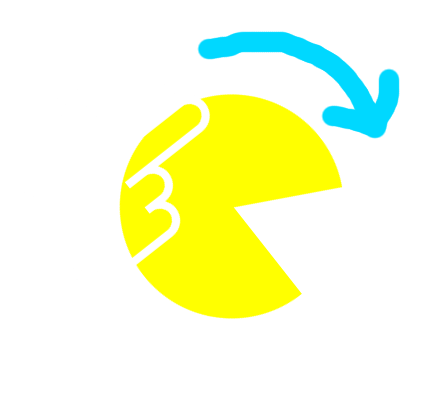
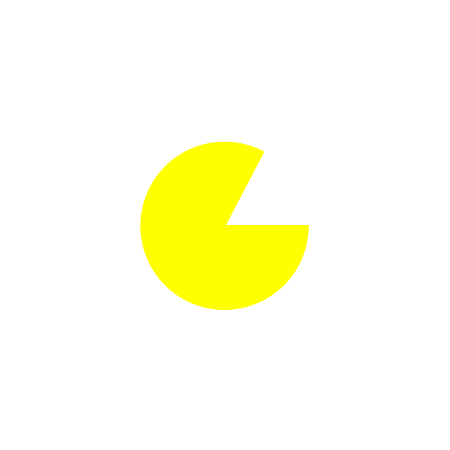
Clearer intro help animation, colors for scores

Changed region(s): [[0.2746, 0.0603, 0.946, 0.8141]]

diff --git a/Pizza Slice/GameScene.swift b/Pizza Slice/GameScene.swift
@@ -12,27 +12,24 @@ import AVFoundation
 class GameScene: SKScene, UIGestureRecognizerDelegate {
 
     var pacMan:SKShapeNode!
-    var planes:NSMutableArray = []
-    var nextPlaneLaunch:CFTimeInterval = 0
-    var direction = 0
+    var howto:SKSpriteNode!
+    var scoreLabel = SKLabelNode(fontNamed: "American Typewriter")
+    var maxScoreLabel = SKLabelNode(fontNamed: "American Typewriter")
+    var gameOverLabel = SKLabelNode(fontNamed: "American Typewriter")
     
-    var viewRadius:CGFloat!
-    var pacManRadius:CGFloat!
-    let pacManArc = M_PI * 0.4
-
     var eatSound = SKAction.playSoundFileNamed("eat.caf", waitForCompletion: false)
     var cwSound = SKAction.playSoundFileNamed("cw.caf", waitForCompletion: false)
     var ccwSound = SKAction.playSoundFileNamed("ccw.caf", waitForCompletion: false)
     var dieSound = SKAction.playSoundFileNamed("die.caf", waitForCompletion: false)
     
-    var scoreLabel:SKLabelNode = SKLabelNode(fontNamed: "American Typewriter")
-    var maxScoreLabel:SKLabelNode = SKLabelNode(fontNamed: "American Typewriter")
-    var gameOverLabel = SKLabelNode()
+    var viewRadius:CGFloat!
+    var pacManRadius:CGFloat!
+    let pacManArc = M_PI * 0.4
     var score:Int = 0
+    var direction = 0
     var gameOver = false
     var readyToStartNewGame = true
-    
-    var howto:SKSpriteNode!
+    var nextPlaneLaunch:CFTimeInterval = 0
     
     func handleRotate(recognizer : UIRotationGestureRecognizer) {
         if readyToStartNewGame {
@@ -60,18 +57,21 @@ class GameScene: SKScene, UIGestureRecognizerDelegate {
         self.viewRadius = hypot(view.frame.width, view.frame.height)
         self.pacManRadius = self.viewRadius * 0.05
         
-        var background:SKSpriteNode = SKSpriteNode(imageNamed: "background.jpg")
+        var background = SKSpriteNode(imageNamed: "background.jpg")
         background.position = CGPointMake(CGRectGetMidX(self.frame), CGRectGetMidY(self.frame))
         background.name = "background"
         background.xScale = 2.0
         background.yScale = 2.0
         self.addChild(background)
-
+        
         self.howto = SKSpriteNode(imageNamed: "howto")
         self.howto.position = CGPointMake(CGRectGetMidX(self.frame), CGRectGetMidY(self.frame))
         self.howto.size = CGSizeMake(self.viewRadius * 0.2, self.viewRadius * 0.2)
-        let action = SKAction.animateWithTextures([SKTexture(imageNamed: "howto"), SKTexture(imageNamed: "howto2")], timePerFrame: 0.4)
-        self.howto.runAction(SKAction.repeatActionForever(action))
+        var actions = NSMutableArray()
+        actions.addObject(SKAction.rotateByAngle(CGFloat(-M_PI_2), duration: 0.5))
+        actions.addObject(SKAction.waitForDuration(0.4))
+        actions.addObject(SKAction.rotateByAngle(CGFloat(+M_PI_2), duration: 0))
+        self.howto.runAction(SKAction.repeatActionForever(SKAction.sequence(actions)))
         self.addChild(self.howto)
         
         self.scoreLabel.text = "Score : 0"
@@ -81,21 +81,20 @@ class GameScene: SKScene, UIGestureRecognizerDelegate {
         self.scoreLabel.horizontalAlignmentMode = SKLabelHorizontalAlignmentMode.Center
         self.scoreLabel.position = CGPointMake(CGRectGetMidX(self.frame), self.frame.size.height - scoreLabel.frame.height * 2)
         self.addChild(scoreLabel)
-        self.maxScoreLabel.text = "Max Score : 0"
+        
+        self.maxScoreLabel.text = "High Score : 0"
         self.maxScoreLabel.name = "maxScoreLabel"
         self.maxScoreLabel.fontSize = UIDevice.currentDevice().userInterfaceIdiom == .Pad ? 60 : 30
         self.maxScoreLabel.zPosition = 10
         self.maxScoreLabel.horizontalAlignmentMode = SKLabelHorizontalAlignmentMode.Center
         self.maxScoreLabel.position = CGPointMake(CGRectGetMidX(self.frame), self.frame.size.height - scoreLabel.frame.height * 3)
-    }
-    
-    func startGame() {
-        self.howto.removeFromParent()
-        self.gameOverLabel.removeFromParent()
-        self.maxScoreLabel.removeFromParent()
-        self.score = 0
-        self.scoreLabel.text = "Score : \(self.score)"
-
+        
+        self.gameOverLabel.text = "GAME OVER"
+        self.gameOverLabel.name = "scoreLabel"
+        self.gameOverLabel.fontSize = UIDevice.currentDevice().userInterfaceIdiom == .Pad ? 60 : 30
+        self.gameOverLabel.zPosition = 9999999
+        self.gameOverLabel.horizontalAlignmentMode = SKLabelHorizontalAlignmentMode.Center
+        self.gameOverLabel.position = CGPointMake(CGRectGetMidX(self.frame), CGRectGetMidY(self.frame) - gameOverLabel.frame.height * 3)
         
         var path = CGPathCreateMutable()
         CGPathMoveToPoint(path, nil, 0, 0)
@@ -105,57 +104,48 @@ class GameScene: SKScene, UIGestureRecognizerDelegate {
         self.pacMan.strokeColor = SKColor.clearColor()
         self.pacMan.zPosition = 9999999
         self.pacMan.position = CGPointMake(CGRectGetMidX(self.frame), CGRectGetMidY(self.frame))
+    }
+    
+    func startGame() {
+        self.howto.removeFromParent()
+        self.gameOverLabel.removeFromParent()
+        self.maxScoreLabel.removeFromParent()
+        self.pacMan.zRotation = 0
         self.addChild(self.pacMan)
-        
+        self.score = 0
+        self.scoreLabel.text = "Score : \(self.score)"
+        self.scoreLabel.fontColor = self.colorForScore(self.score)
         self.readyToStartNewGame = false
         self.gameOver = false
     }
     
     func gameOver(attackingPiece: SKNode) {
         self.gameOver = true
-        
-        for plane in self.planes {
-            plane.removeFromParent()
-        }
-        self.planes.removeAllObjects()
         self.runAction(self.dieSound)
+
+        self.enumerateChildNodesWithName("plane", usingBlock: { (plane:SKNode!, x) -> Void in
+            plane.removeFromParent()
+        })
         
         var maxScore = self.score
         if let savedMaxScore = NSUserDefaults.standardUserDefaults().objectForKey("maxScore") as? NSNumber {
             maxScore = max(self.score, savedMaxScore)
         }
         NSUserDefaults.standardUserDefaults().setInteger(maxScore, forKey: "maxScore")
-        self.maxScoreLabel.text = "Max Score : \(maxScore)"
+        self.maxScoreLabel.text = "High Score : \(maxScore)"
+        self.maxScoreLabel.fontColor = self.colorForScore(maxScore)
         self.addChild(self.maxScoreLabel)
-        
-        gameOverLabel = SKLabelNode(fontNamed: "American Typewriter")
-        gameOverLabel.text = "GAME OVER"
-        gameOverLabel.name = "scoreLabel"
-        gameOverLabel.fontSize = UIDevice.currentDevice().userInterfaceIdiom == .Pad ? 60 : 30
-        gameOverLabel.zPosition = 9999999
-        gameOverLabel.horizontalAlignmentMode = SKLabelHorizontalAlignmentMode.Center
-        gameOverLabel.position = CGPointMake(CGRectGetMidX(self.frame), CGRectGetMidY(self.frame) - gameOverLabel.frame.height * 3)
-        self.addChild(gameOverLabel)
-        
-        
+        self.addChild(self.gameOverLabel)
         
         var wait = SKAction.waitForDuration(1.5)
         var setReady = SKAction.runBlock {
             self.pacMan.removeFromParent()
-            
-            self.howto = SKSpriteNode(imageNamed: "howto")
-            self.howto.position = CGPointMake(CGRectGetMidX(self.frame), CGRectGetMidY(self.frame))
-            self.howto.size = CGSizeMake(self.viewRadius * 0.2, self.viewRadius * 0.2)
-            let action = SKAction.animateWithTextures([SKTexture(imageNamed: "howto"), SKTexture(imageNamed: "howto2")], timePerFrame: 0.4)
-            self.howto.runAction(SKAction.repeatActionForever(action))
             self.addChild(self.howto)
-
             self.readyToStartNewGame = true
         }
         self.runAction(SKAction.sequence([wait, setReady]))
     }
     
-
     /* Called before each frame is rendered */
     override func update(currentTime: CFTimeInterval) {
         if gameOver {return}
@@ -169,18 +159,17 @@ class GameScene: SKScene, UIGestureRecognizerDelegate {
     
     func launchNewPlane() {
         let angle:CGFloat = CGFloat(Double(arc4random()) / 0x100000000 * 2 * M_PI)
-        let middlePoint = CGPointMake(CGRectGetMidX(self.frame), CGRectGetMidY(self.frame))
         let startPoint = CGPointMake(self.viewRadius * cos(angle) + CGRectGetMidX(self.frame),
                                      self.viewRadius * sin(angle) + CGRectGetMidY(self.frame))
         let collisionPoint = CGPointMake(self.pacManRadius * cos(angle) + CGRectGetMidX(self.frame),
                                          self.pacManRadius * sin(angle) + CGRectGetMidY(self.frame))
+        let middlePoint = CGPointMake(CGRectGetMidX(self.frame), CGRectGetMidY(self.frame))
         
         var plane:SKSpriteNode = SKSpriteNode(imageNamed: "plane")
         plane.position = startPoint
-        plane.name = "background"
+        plane.name = "plane"
         plane.size = CGSizeMake(self.viewRadius * 0.03, self.viewRadius * 0.03)
         self.addChild(plane)
-        self.planes.addObject(plane)
         
         var approachPacMac = SKAction.moveTo(collisionPoint, duration: 5)
         approachPacMac.timingMode = SKActionTimingMode.EaseIn
@@ -191,20 +180,10 @@ class GameScene: SKScene, UIGestureRecognizerDelegate {
                 self.scoreLabel.text = "Score : \(self.score)"
                 self.runAction(self.eatSound)
                 
-                if (self.score == 10) {
-                    self.pacMan.fillColor = SKColor.orangeColor()
-                } else if (self.score == 20) {
-                    self.pacMan.fillColor = SKColor.redColor()
-                } else if (self.score == 30) {
-                    self.pacMan.fillColor = SKColor.purpleColor()
-                } else if (self.score == 40) {
-                    self.pacMan.fillColor = SKColor.greenColor()
-                } else if (self.score == 50) {
-                    self.pacMan.fillColor = SKColor.blueColor()
-                } else if (self.score % 10 == 0) {
-                    self.pacMan.fillColor = UIColor(hue: CGFloat(self.score), saturation: 1, brightness: 1, alpha: 1)
+                if self.score % 10 == 0 {
+                    self.pacMan.fillColor = self.colorForScore(self.score)
+                    self.scoreLabel.fontColor = self.colorForScore(self.score)
                 }
-                
             } else {
                 self.gameOver(plane)
             }
@@ -215,12 +194,30 @@ class GameScene: SKScene, UIGestureRecognizerDelegate {
         
         var deleteNode:SKAction = SKAction.runBlock {
             plane.removeFromParent()
-            self.planes.removeObject(plane)
         }
 
         var sequence:SKAction = SKAction.sequence([approachPacMac, checkCollision, approachCenter, deleteNode])
         plane.runAction(sequence)
     }
-
+    
+    func colorForScore(score:Int) -> SKColor {
+        switch score {
+        case 0...9:
+            return SKColor.whiteColor()
+        case 10...19:
+            return SKColor.orangeColor()
+        case 20...29:
+            return SKColor.redColor()
+        case 30...39:
+            return SKColor.purpleColor()
+        case 40...49:
+            return SKColor.greenColor()
+        case 50...59:
+            return SKColor.blueColor()
+        default:
+            let tens = Int(score / 10)
+            return UIColor(hue: CGFloat(tens), saturation: 1, brightness: 1, alpha: 1)
+        }
+    }
 
 }

diff --git a/Pizza Slice/GameViewController.swift b/Pizza Slice/GameViewController.swift
@@ -28,8 +28,8 @@ class GameViewController: UIViewController, ADBannerViewDelegate {
         
         let scene = GameScene(size: self.view.frame.size)
         let skView = self.view as SKView
-        skView.showsFPS = true
-        skView.showsNodeCount = true
+        //skView.showsFPS = true
+        //skView.showsNodeCount = true
         //scene.scaleMode = .AspectFill
         self.rotater.addTarget(scene, action: "handleRotate:")
         self.view.addGestureRecognizer(self.rotater)
